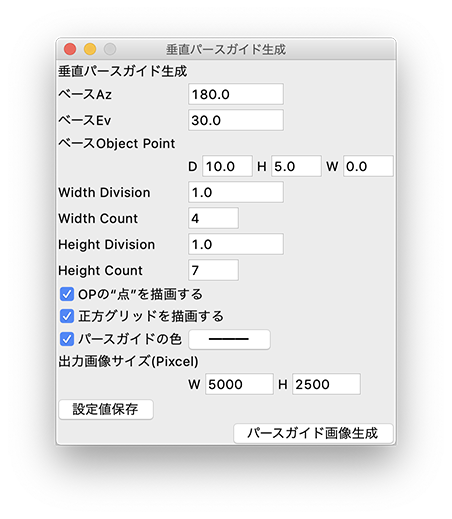
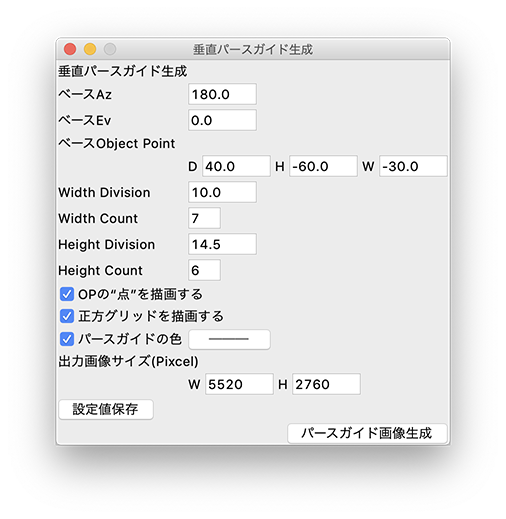
UI修正&アセットUpdate
入力テキストボックスの大きさを修正
docの画像をUpdate

diff --git a/setting_vert_plane_pers_grid.py b/setting_vert_plane_pers_grid.py
@@ -170,37 +170,37 @@ Static01 = ttk.Label(frm, text=u'垂直パースガイド生成', justify='left'
 # ベースAz text
 Static02 = ttk.Label(frm, text=u'ベースAz', justify='left')
 # ベースAz インプット
-txt_baseAz = ttk.Entry(frm, width=10, justify='left', textvariable=txtVal_baseAz)
+txt_baseAz = ttk.Entry(frm, width=7, justify='left', textvariable=txtVal_baseAz)
 # ベースEv text
 Static03 = ttk.Label(frm, text=u'ベースEv', justify='left')
 # ベースEv インプット
-txt_baseEv = ttk.Entry(frm, width=10, justify='left', textvariable=txtVal_baseEv)
+txt_baseEv = ttk.Entry(frm, width=7, justify='left', textvariable=txtVal_baseEv)
 # ベースObject Point text
 Static04 = ttk.Label(frm, text=u'ベースObject Point', justify='left')
 # ベースObject Point(D, H, W)
 bseOPFrm = ttk.Frame(frm)
 Static05 = ttk.Label(bseOPFrm, text=u'D', justify='left')
-txt_D = ttk.Entry(bseOPFrm, width=5, justify='left', textvariable=txtVal_D)
+txt_D = ttk.Entry(bseOPFrm, width=7, justify='left', textvariable=txtVal_D)
 Static06 = ttk.Label(bseOPFrm, text=u'H', justify='left')
-txt_H = ttk.Entry(bseOPFrm, width=5, justify='left', textvariable=txtVal_H)
+txt_H = ttk.Entry(bseOPFrm, width=7, justify='left', textvariable=txtVal_H)
 Static07 = ttk.Label(bseOPFrm, text=u'W', justify='left')
-txt_W = ttk.Entry(bseOPFrm, width=5, justify='left', textvariable=txtVal_W)
+txt_W = ttk.Entry(bseOPFrm, width=7, justify='left', textvariable=txtVal_W)
 # Width Division text
 Static08 = ttk.Label(frm, text=u'Width Division', justify='left')
 # Width Division インプット
-txt_widthDiv = ttk.Entry(frm, width=10, justify='left', textvariable=txtVal_widthDiv)
+txt_widthDiv = ttk.Entry(frm, width=7, justify='left', textvariable=txtVal_widthDiv)
 # Width Count text
 Static09 = ttk.Label(frm, text=u'Width Count', justify='left')
 # Width Count インプット
-txt_widthCnt = ttk.Entry(frm, width=5, justify='left', textvariable=txtVal_widthCnt)
+txt_widthCnt = ttk.Entry(frm, width=3, justify='left', textvariable=txtVal_widthCnt)
 # Height Division text
 Static10 = ttk.Label(frm, text=u'Height Division', justify='left')
 # Height Division インプット
-txt_heightDiv = ttk.Entry(frm, width=10, justify='left', textvariable=txtVal_heightDiv)
+txt_heightDiv = ttk.Entry(frm, width=7, justify='left', textvariable=txtVal_heightDiv)
 # Height Count text
 Static11 = ttk.Label(frm, text=u'Height Count', justify='left')
 # Height Count インプット
-txt_heightCnt = ttk.Entry(frm, width=5, justify='left', textvariable=txtVal_heightCnt)
+txt_heightCnt = ttk.Entry(frm, width=3, justify='left', textvariable=txtVal_heightCnt)
 # OPの“点”を描画する チェックボックス
 chk_drawObjPoint = ttk.Checkbutton(frm, text=u"OPの“点”を描画する" , variable=chkVal_drawObjPoint)
 # 正方グリッドを描画する チェックボックス

diff --git a/setting_horz_plane_pers_grid.py b/setting_horz_plane_pers_grid.py
@@ -185,19 +185,19 @@ chkVal_guideColor.set(setting['chkVal_guideColor'])
 # ココでの定義順でTabフォーカスの順序が決定される
 #######################
 # ベースAz インプット
-txt_baseAz = ttk.Entry(frm, width=10, justify='left', textvariable=txtVal_baseAz)
+txt_baseAz = ttk.Entry(frm, width=7, justify='left', textvariable=txtVal_baseAz)
 # Base OP(D, W, H) インプット
-txt_D = ttk.Entry(frm, width=5, justify='left', textvariable=txtVal_D)
-txt_W = ttk.Entry(frm, width=5, justify='left', textvariable=txtVal_W)
+txt_D = ttk.Entry(frm, width=7, justify='left', textvariable=txtVal_D)
+txt_W = ttk.Entry(frm, width=7, justify='left', textvariable=txtVal_W)
 txt_H = ttk.Entry(frm, width=18, justify='left', textvariable=txtVal_H)
 # Width Division インプット
-txt_widthDiv = ttk.Entry(frm, width=10, justify='left', textvariable=txtVal_widthDiv)
+txt_widthDiv = ttk.Entry(frm, width=7, justify='left', textvariable=txtVal_widthDiv)
 # Width Count インプット
-txt_widthCnt = ttk.Entry(frm, width=5, justify='left', textvariable=txtVal_widthCnt)
+txt_widthCnt = ttk.Entry(frm, width=3, justify='left', textvariable=txtVal_widthCnt)
 # Depth Division インプット
-txt_depthDiv = ttk.Entry(frm, width=10, justify='left', textvariable=txtVal_depthDiv)
+txt_depthDiv = ttk.Entry(frm, width=7, justify='left', textvariable=txtVal_depthDiv)
 # Depth Count インプット
-txt_depthCnt = ttk.Entry(frm, width=5, justify='left', textvariable=txtVal_depthCnt)
+txt_depthCnt = ttk.Entry(frm, width=3, justify='left', textvariable=txtVal_depthCnt)
 # OPの“点”を描画する チェックボックス
 chk_drawObjPoint = ttk.Checkbutton(frm, text=u"OPの“点”を描画する" , variable=chkVal_drawObjPoint)
 # 正方グリッドを描画する チェックボックス
